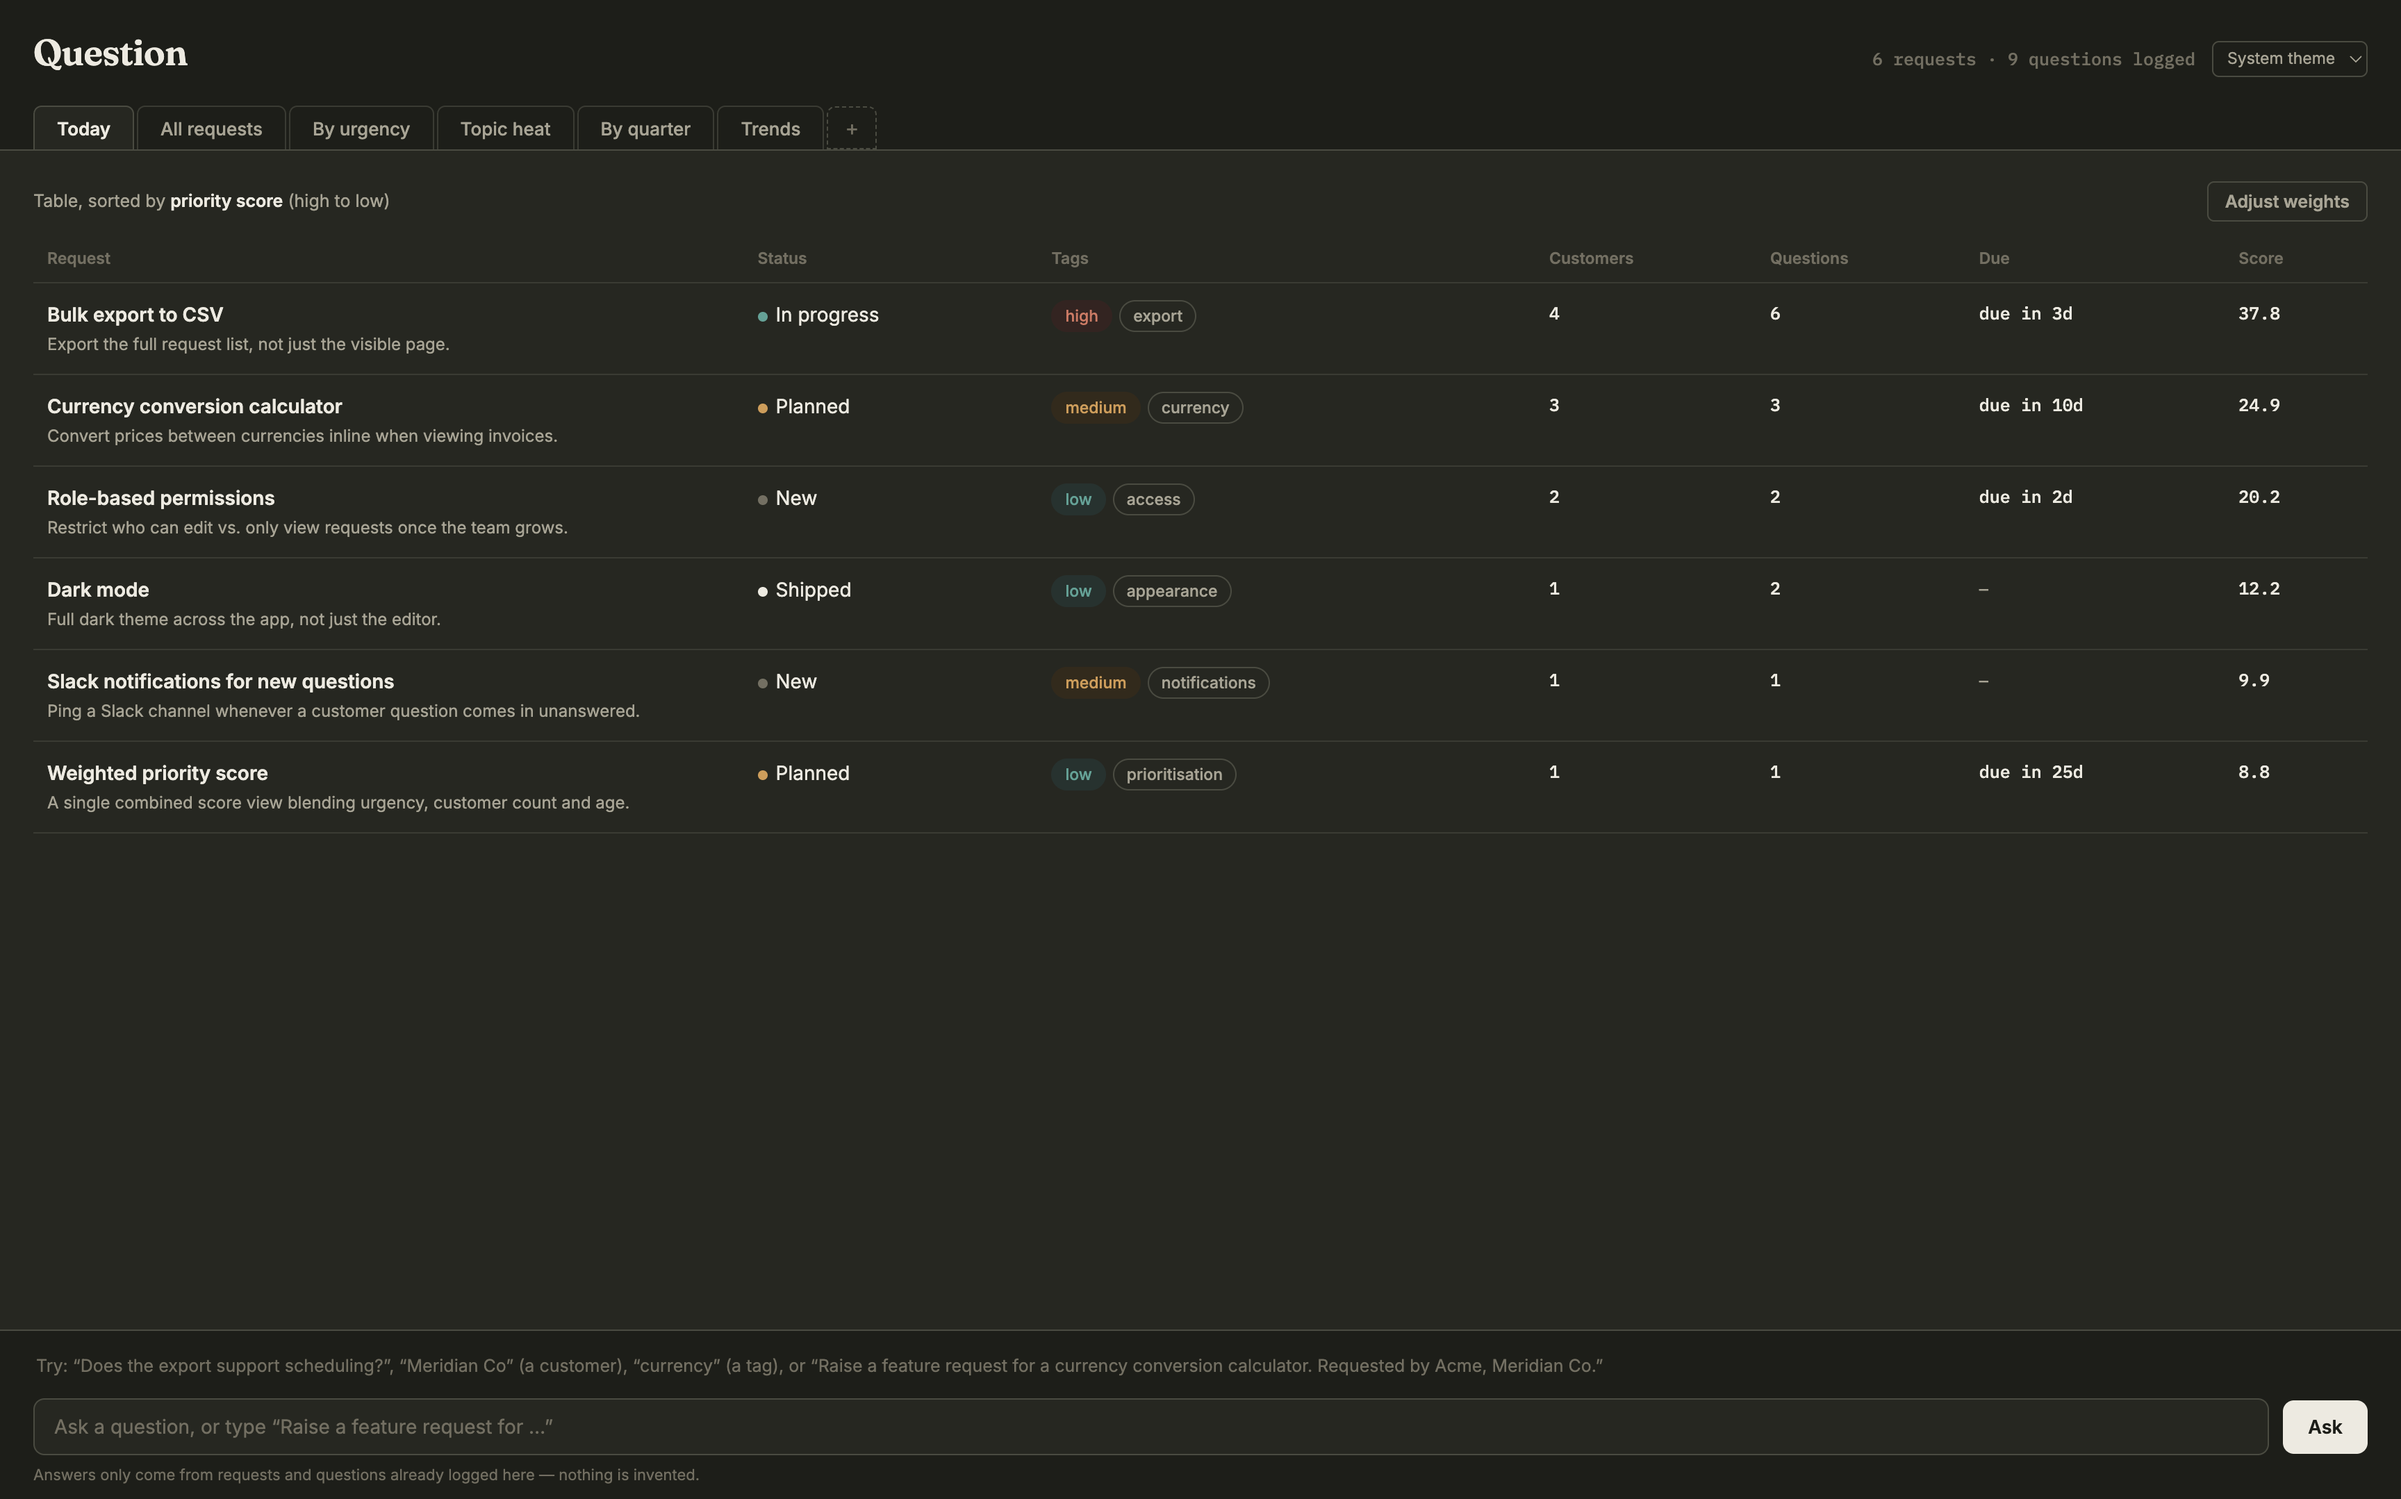
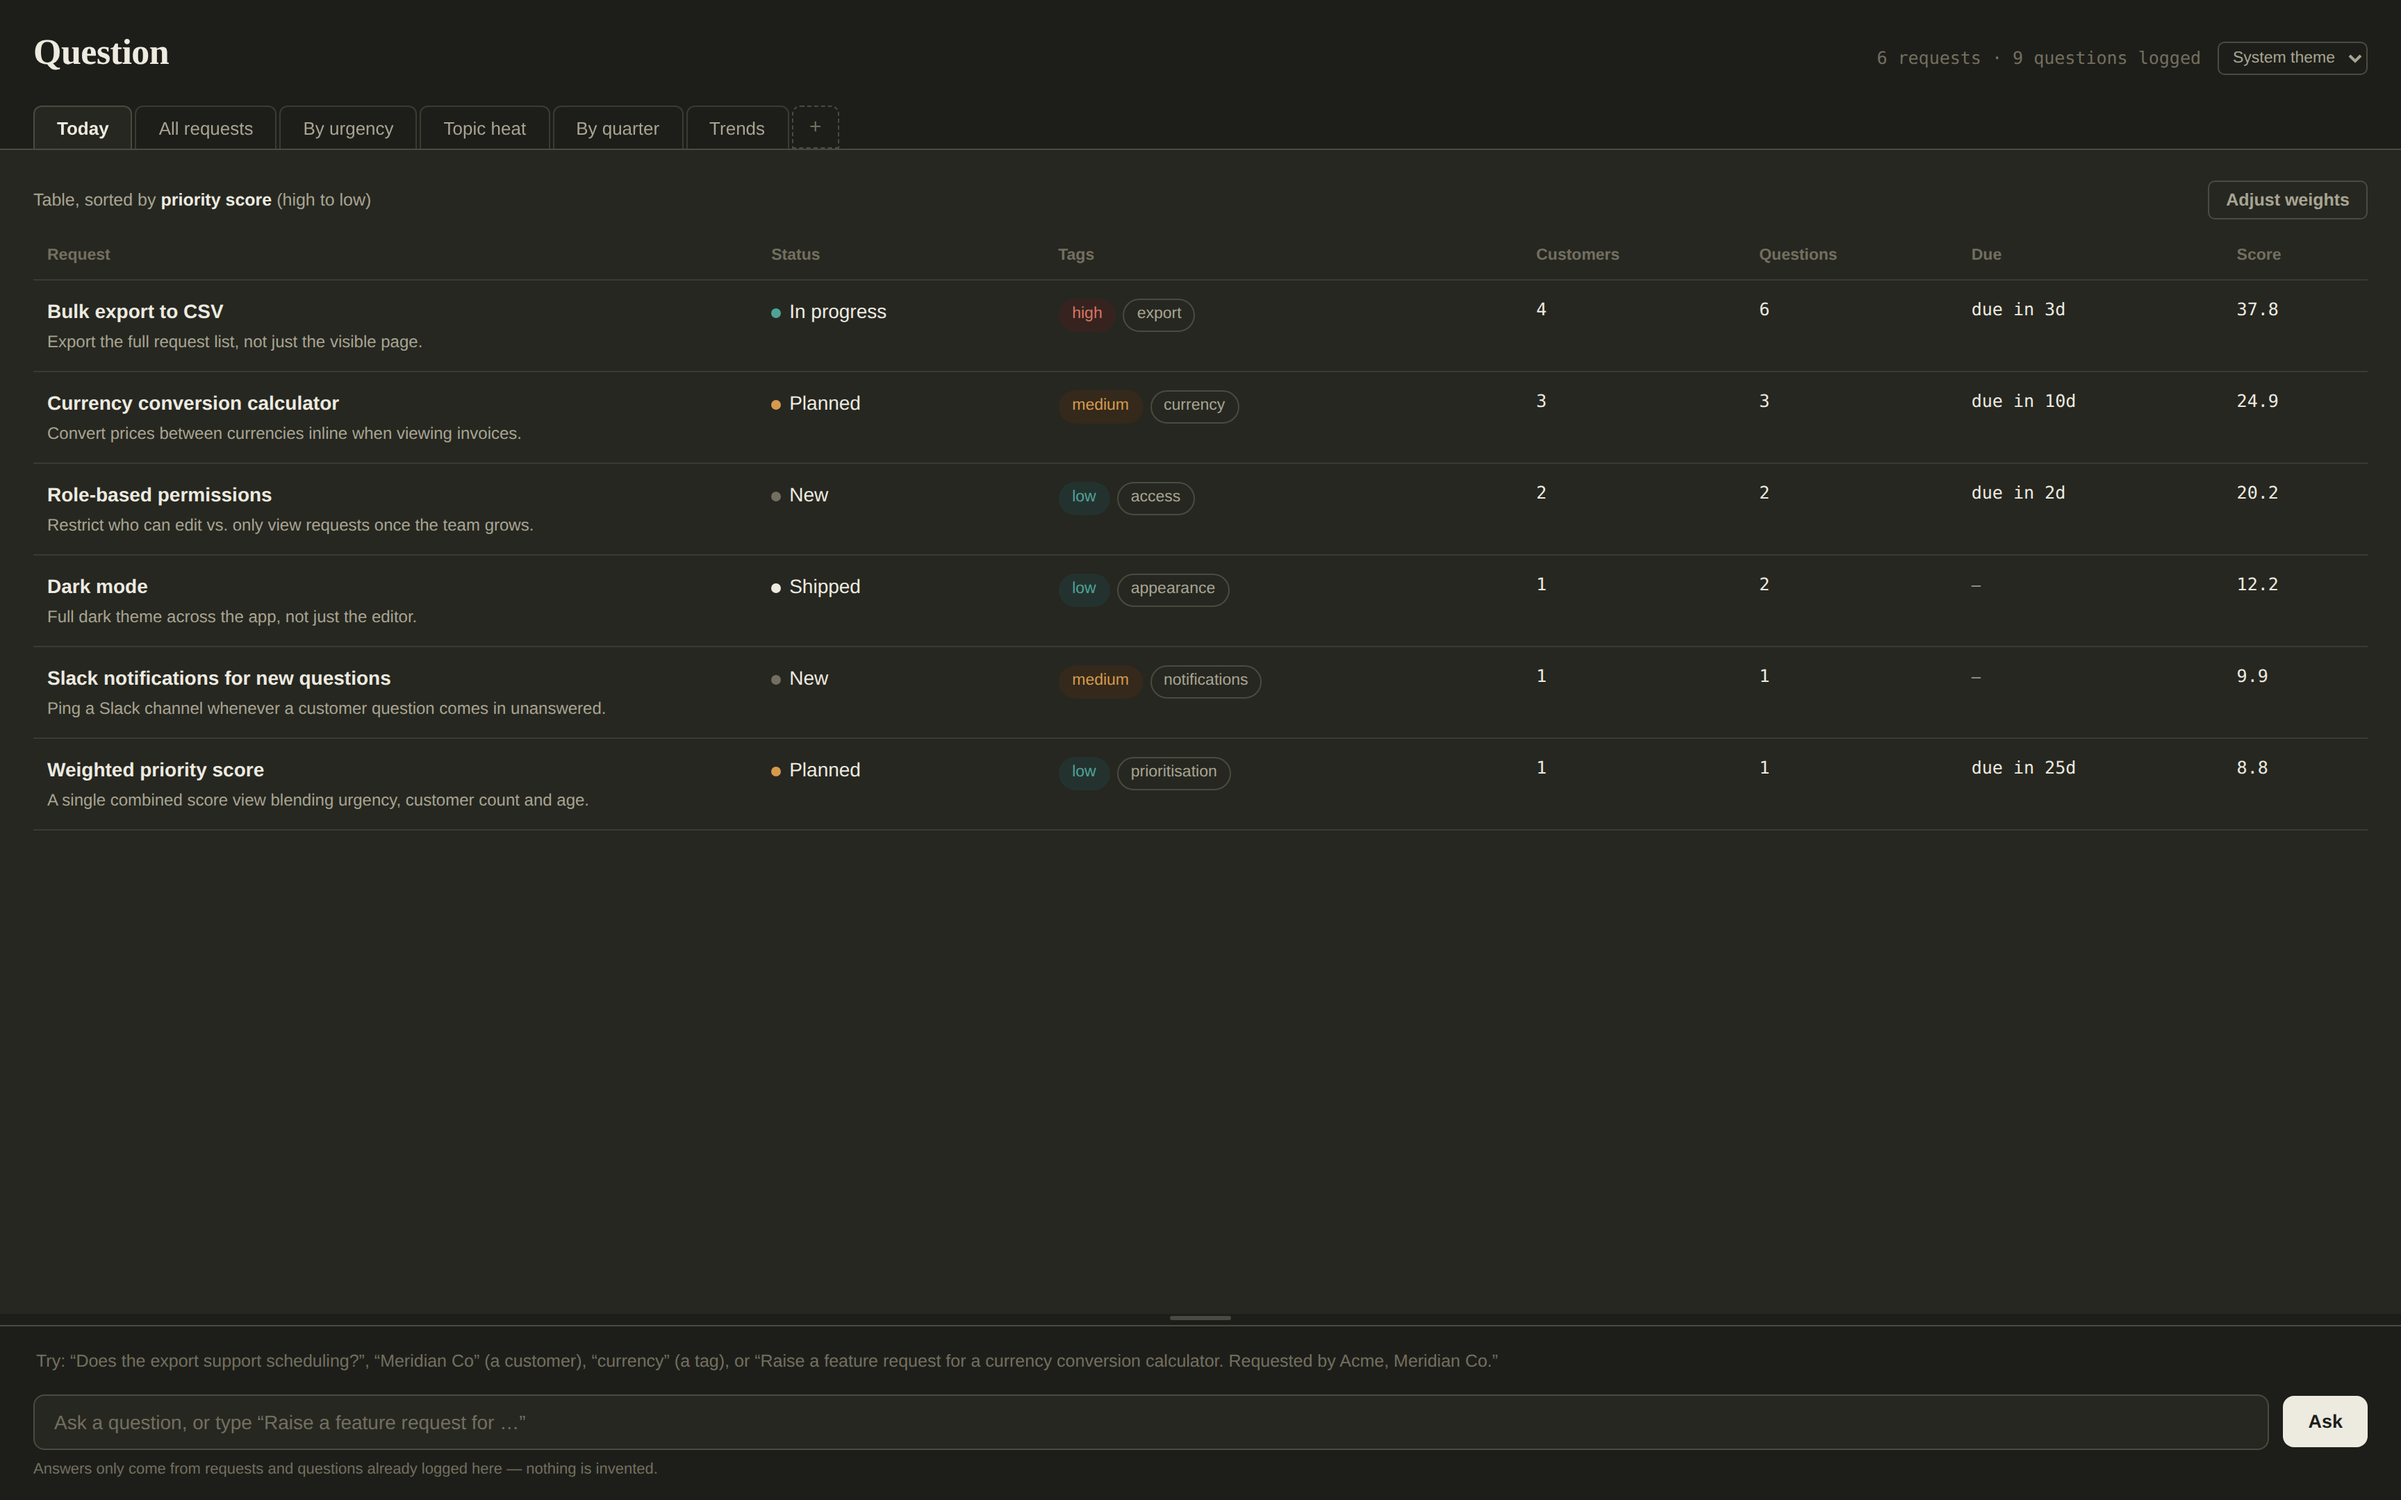
Remove "Clear all data" button; resetting is now folder deletion only
The button was a permanent, always-visible, one-click, unrecoverable wipe
in the main header — too dangerous to leave in place once real data is in
the app, and there's no real scenario where you'd want its one edge over a
full reset (wiping content while keeping your views/topics/statuses).
Deleting the Question Data folder (already documented) does the same job
more safely: it's outside the app, deliberate, and typically goes through
the OS Trash first.

That exposed a real gap, though: deleting the folder also deletes
settings.json, which was the only "is this a first run" signal, so it used
to reseed the example data right back — meaning "reset to blank" and "see
the demo data again" were the same action, forcing a manual re-clear every
time you just wanted a fresh start. Fixed by tracking "has this app ever
seeded before" in a tiny marker file kept outside the visible data folder
(Electron's own per-user app-support directory, via a small addition to
loadAll()'s payload — still just the two IPC calls) so it survives the
folder being deleted. Example data now seeds exactly once, ever, on a given
machine; every reset after that lands on a genuinely empty app.

Also: regenerated the README screenshots (no more button in the header),
and updated docs/DESIGN.md and docs/TODO.md to reflect both changes.

Claude-Session: https://claude.ai/code/session_01GVijoQsSv67Xh1uNSnb42M

diff --git a/renderer/index.html b/renderer/index.html
@@ -176,7 +176,6 @@
     <div><span class="brand">Question</span></div>
     <div style="display:flex;align-items:center;gap:12px;">
       <div class="header-meta" id="headerMeta"></div>
-      <button class="btn btn-danger" id="clearAllDataBtn" title="Permanently delete every feature request and question — useful for clearing the example data on first run" style="font-size:11.5px;padding:4px 8px;">Clear all data</button>
       <select id="themeSelect" title="Theme" style="font-family:var(--font-body);font-size:11.5px;padding:4px 6px;border-radius:5px;border:1px solid var(--rule-strong);background:transparent;color:var(--ink-soft);">
         <option value="system">System theme</option>
         <option value="light">Light</option>
@@ -258,8 +257,16 @@
   // feed history stays in-memory only, same documented limitation as before
   // (it resets on app restart) — everything else round-trips to disk.
   async function loadState(){
-    const { requests, questions, settings } = await window.questionAPI.loadAll();
-    if (requests.length === 0 && questions.length === 0 && !settings) return null; // first run
+    const { requests, questions, settings, everSeeded } = await window.questionAPI.loadAll();
+    // No data and no settings means the visible data folder is empty — either
+    // because this is the true first run (never seeded before, anywhere on
+    // this machine: see backend.cjs's hasEverLaunched()), in which case the
+    // caller falls back to seed() below, or because the folder was deleted
+    // later on to reset the app, in which case it should come back empty,
+    // not reseeded with the examples a second time — see blankState().
+    if (requests.length === 0 && questions.length === 0 && !settings){
+      return everSeeded ? blankState() : null;
+    }
     return {
       requests, questions,
       views: (settings && settings.views) || defaultViews(),
@@ -361,6 +368,22 @@
     ];
     return {
       requests, questions,
+      views: defaultViews(),
+      scoreWeights: defaultScoreWeights(),
+      activeView: null, feedHeightPx: null, feed: []
+    };
+  }
+
+  // What loadState() returns for "the data folder is empty, but this isn't
+  // the true first run" (see hasEverLaunched() in backend.cjs) — same shape
+  // as seed(), minus the example content. There's no in-app way to reach
+  // this deliberately anymore (see docs/DESIGN.md — the old "Clear all
+  // data" button was removed as too dangerous to leave permanently
+  // visible); it's what you land on by deleting the Question Data folder
+  // yourself, any time after the first.
+  function blankState(){
+    return {
+      requests: [], questions: [],
       views: defaultViews(),
       scoreWeights: defaultScoreWeights(),
       activeView: null, feedHeightPx: null, feed: []
@@ -1406,18 +1429,6 @@
   const themeSelect = document.getElementById("themeSelect");
   themeSelect.value = state.theme;
   themeSelect.onchange = () => { state.theme = themeSelect.value; saveState(); applyTheme(); };
-
-  document.getElementById("clearAllDataBtn").onclick = () => {
-    const rCount = state.requests.length, qCount = state.questions.length;
-    if (rCount === 0 && qCount === 0) { alert("There's nothing to clear — no requests or questions logged yet."); return; }
-    if (!confirm(`Permanently delete all ${rCount} feature request${rCount===1?"":"s"} and ${qCount} question${qCount===1?"":"s"}? This can't be undone — useful for clearing the example data before you start using this for real.`)) return;
-    state.requests = [];
-    state.questions = [];
-    state.feed = [];
-    saveState();
-    render();
-    renderFeed();
-  };
 
   // Draggable divider between the Views area (main) and the conversation panel
   // (composer-wrap). The feed's max-height is a CSS custom property so drag

diff --git a/docs/DESIGN.md b/docs/DESIGN.md
@@ -45,16 +45,35 @@ here whenever a non-obvious choice gets made, or gets questioned and kept.
   is a known, accepted limitation, not a bug: everything else (requests,
   questions, settings, view layout, feed panel height) round-trips to disk;
   the feed transcript itself deliberately doesn't.
-- **Example data only ever seeds on a true first run.** "Clear all data"
-  empties requests/questions but does not bring the examples back, since
-  it's no longer a first run once real data has existed. Getting the seed
-  data back requires deleting the `Question Data` folder entirely, forcing
-  a genuine first run — clearing and reseeding are kept as separate,
-  deliberately non-symmetric actions so a misclick can't quietly restore
-  fake data on top of real data.
+- **Example data only ever seeds on the true first run — ever, on this
+  machine — not just "no data currently on disk."** Those aren't the same
+  test: deleting `Question Data` to reset the app (see the "Clear all data"
+  entry below) also deletes `settings.json`, which used to be the only
+  first-run signal, so it used to make the app look exactly like a fresh
+  install and reseed the examples again. It now also checks a tiny marker
+  file, `seeded.marker`, written on first launch — deliberately kept
+  *outside* `Question Data`, in Electron's own per-user app-support
+  directory (see `main.cjs`'s `SEEDED_MARKER`), specifically so it survives
+  the visible data folder being deleted. This is the one deliberate
+  exception to "nothing hidden in app-support" above: unlike everything
+  else, this file holds no user content at all, just one bit ("has this
+  app ever produced its example data before") — a reset should give you a
+  truly blank app, not the demo content again.
 
 ## UI & renderer
 
+- **There is no "Clear all data" button.** There used to be one — a
+  permanent, always-visible, one-click, unrecoverable wipe in the main
+  header. It got removed rather than hidden behind a confirmation step or a
+  keyboard shortcut: there's no realistic scenario where you'd want to wipe
+  your actual content while keeping your views/topics/statuses set up
+  around it (the one thing the button did that a full reset can't), so it
+  wasn't pulling its weight against the risk of a misclick once real data
+  is in the app. Quitting and deleting the `Question Data` folder (see
+  "Running it" in the README) does the same job — and more safely, since
+  it requires a deliberate action outside the app and typically goes
+  through the OS Trash/Recycle Bin first, rather than a hard delete inside
+  the app itself.
 - **Single-file HTML/CSS/JS renderer, no framework, no build step.** Keeps
   the whole UI inspectable and editable directly; a build step or framework
   would be a real cost for a UI this size.

diff --git a/README.md b/README.md
@@ -109,16 +109,21 @@ Markdown files, human-readable, nothing hidden away in an app-support
 folder), and it's seeded with a handful of example feature requests and
 questions so there's something to look at right away.
 
-That seeding only ever happens once, on that true first run. Updating the
-app's code later (a new download, a `git pull`, whatever) never touches
-`Question Data` — your real data and the app's code are entirely separate,
-so upgrading the app never risks your data. If you ever want to wipe
-everything, use the **Clear all data** button in the header — but note
-that it empties your requests and questions, it doesn't bring the
-examples back (since it's no longer a first run once real data has
-existed). To get the example data back specifically, delete the
-`Question Data` folder entirely and relaunch, which forces a genuine
-first run.
+That seeding only ever happens once — the true first time the app has ever
+run on your machine. Updating the app's code later (a new download, a
+`git pull`, whatever) never touches `Question Data` — your real data and the
+app's code are entirely separate, so upgrading the app never risks your
+data.
+
+**To wipe everything and start clean, quit the app and delete the
+`Question Data` folder, then relaunch.** There's no in-app button for this
+— an always-visible, one-click, unrecoverable wipe sitting in the main UI
+forever was judged too dangerous to keep (see docs/DESIGN.md), and this
+achieves the same thing more safely: it takes a deliberate action outside
+the app, and on most systems the deleted folder lands in the Trash/Recycle
+Bin first rather than being gone immediately. You'll land on a genuinely
+empty app, not the example data again — the example seed is a true, one-time
+first-run affordance, not something a later reset brings back.
 
 `npm run demo` runs a small end-to-end proof of the backend on its own
 (seeds sample data, deletes the index, rebuilds it from the Markdown files,

diff --git a/docs/TODO.md b/docs/TODO.md
@@ -2,14 +2,6 @@
 
 Known gaps and things we want to revisit — not urgent, not forgotten.
 
-- **"Clear all data" is too prominent for how dangerous it is.** It lives as
-  a permanent, always-visible button in the header. The action itself is
-  needed (clearing out example/test data, starting fresh), but having a
-  one-click irreversible wipe sitting in the main UI at all times is risky
-  — easy to misclick once real data is in there. Needs a safer home (a
-  settings/overflow menu, a confirmation step beyond the current `confirm()`
-  dialog, something else) — no solution picked yet.
-
 - **Decide how, or if, to support multiple user scenarios** — e.g. separate
   Work / Personal / Hobbies data that don't mix. Ruled out: separate signed
   macOS installers per scenario (too much packaging/distribution overhead
